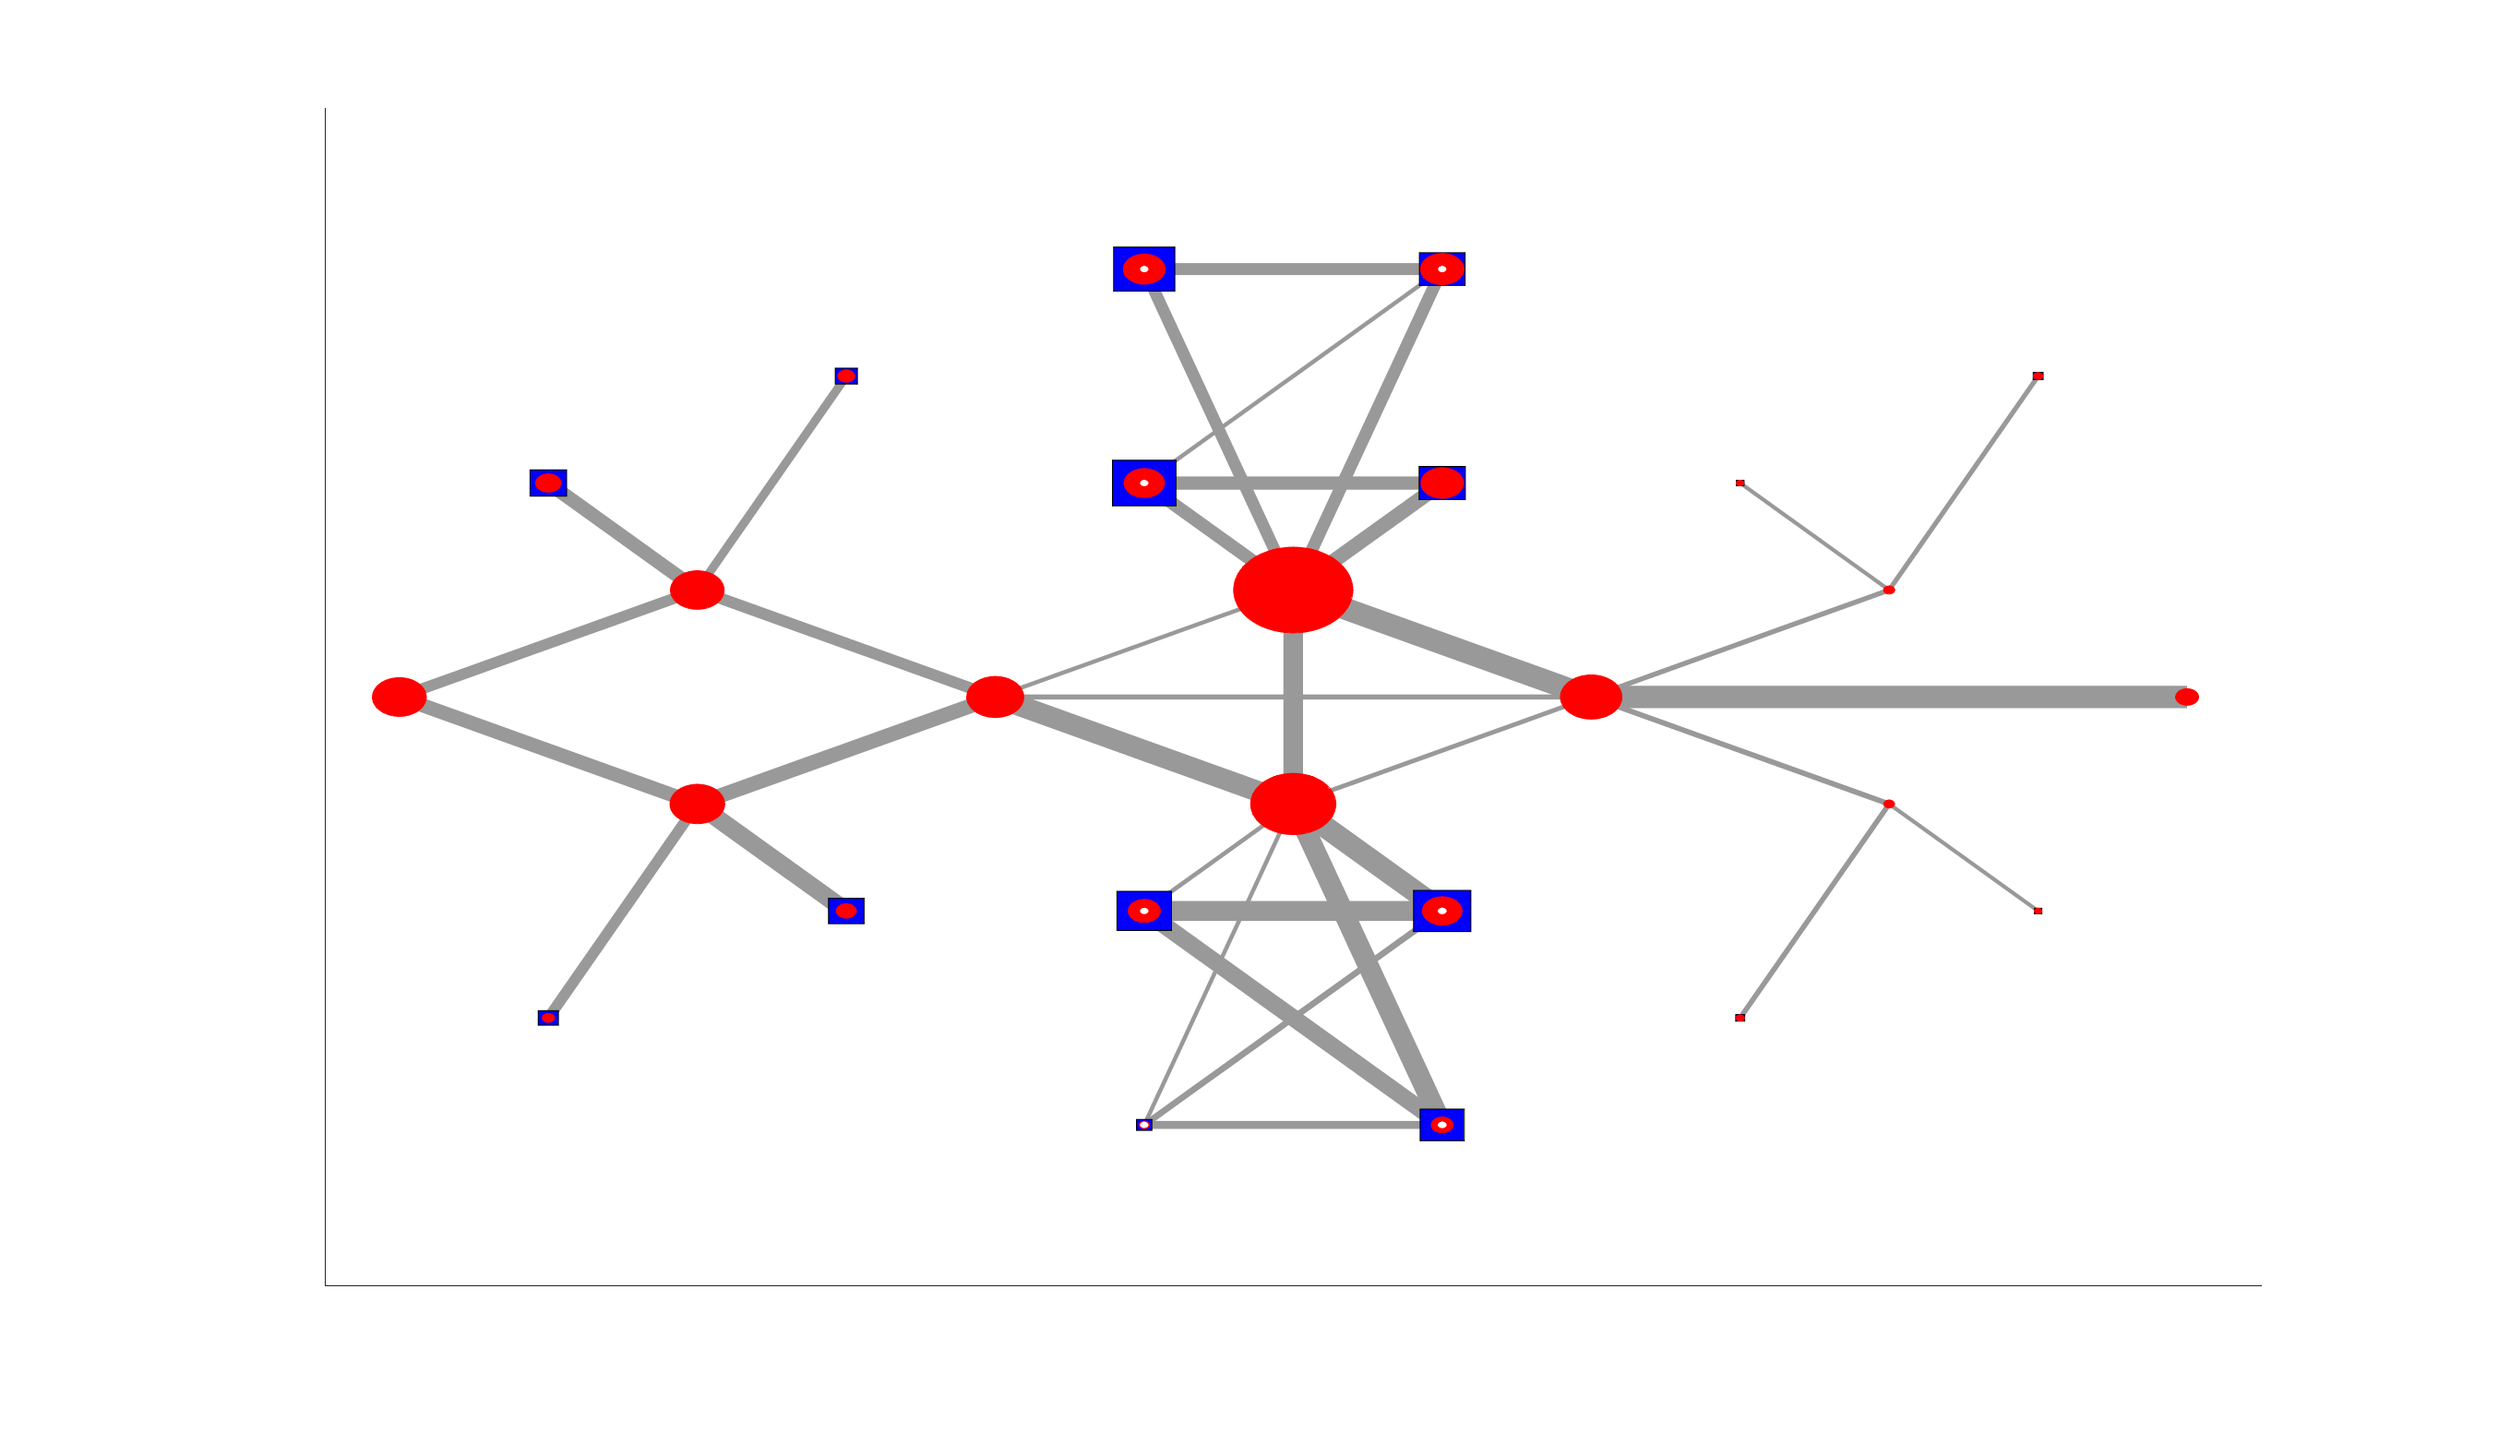
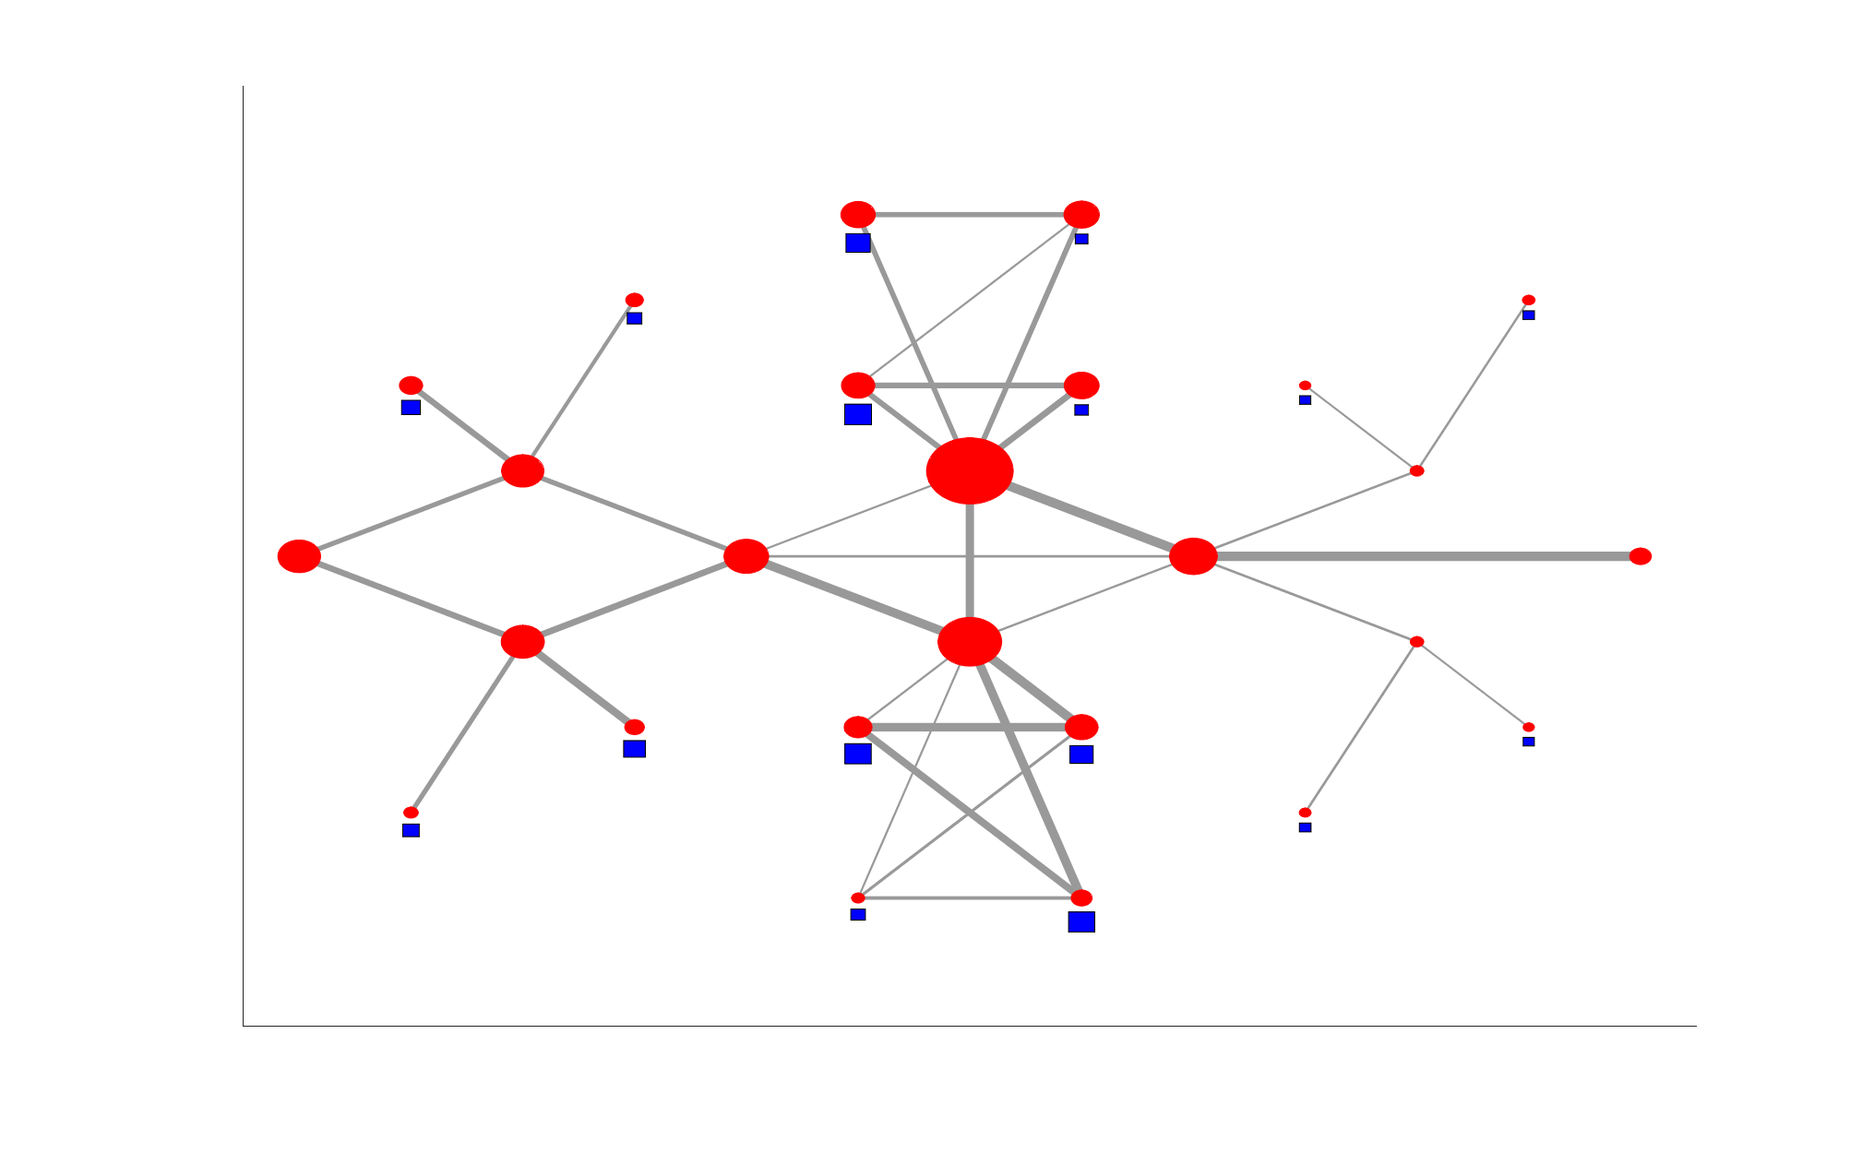
Updates to visualization (decoupling of waiting and processing times)

diff --git a/plotNodes.m b/plotNodes.m
@@ -1,26 +1,34 @@
-plotThicknessHold = zeros(size(uniqueNodesWithTimes,1),1);
+plotThicknessHold1 = zeros(size(uniqueNodesWithTimes,1),1);
 hold on;
 
 %Plot
-%maxPlot = max(uniqueNodesWithTimes(:,end))/scaleFactorNode; %scale factor
-maxPlot = max(uniqueNodesWithTimes(:,end));
-minPlot = min(uniqueNodesWithTimes(:,end));
-
 for i = 1:size(uniqueNodesWithTimes,1)
     p_x = uniqueNodesWithTimes(i,1);
     p_y = uniqueNodesWithTimes(i,2);
     
-    % Plot machines
-    if(uniqueNodesWithTimes(i,5)~=0)
-         %plotThicknessManuf = uniqueNodesWithTimes(i,end)/maxPlot;
-         plotThicknessManuf = (scaleMax-scaleMin)/(maxPlot-minPlot)*(uniqueNodesWithTimes(i,end) - maxPlot)+scaleMax;
-         rectangle('Position',[p_x-plotThicknessManuf/2,p_y-plotThicknessManuf/2,...
-            plotThicknessManuf,plotThicknessManuf],'FaceColor','b')
-        
-    end
+%     %Wait for the machine
+%     if (uniqueNodesWithTimes(i,end-3)>0)
+%         plotThicknessHold1 = (scaleMax-scaleMin)/(maxPlot-minPlot)*(uniqueNodesWithTimes(i,end-3)- maxPlot)+scaleMax;
+%         rectangle('Position',[p_x-plotThicknessHold1,p_y-plotThicknessHold1/2,...
+%             plotThicknessHold1,plotThicknessHold1],'Curvature',[1,1],...
+%             'EdgeColor','k','FaceColor','w')
+%         
+%     end
+%     
+%     %Wait for the robot
+%     if ((uniqueNodesWithTimes(i,end-2))>0)
+%      
+%         plotThicknessHold2 = (scaleMax-scaleMin)/(maxPlot-minPlot)*((uniqueNodesWithTimes(i,end-2)) - maxPlot)+scaleMax;
+%         if (~plotThicknessHold1>0)
+%             plotThicknessHold1 = -plotThicknessHold2;
+%         end
+%         
+%         rectangle('Position',[p_x+plotThicknessHold1/2,p_y-plotThicknessHold2/2,...
+%             plotThicknessHold2,plotThicknessHold2],'Curvature',[1,1],...
+%             'EdgeColor','r','FaceColor','r')
+%     end
     
     if ((uniqueNodesWithTimes(i,end-2)+uniqueNodesWithTimes(i,end-3))>0)
-    
      % Plot buffers
         %plotThicknessHold = (uniqueNodesWithTimes(i,end-2)+uniqueNodesWithTimes(i,end-3))/maxPlot;
         plotThicknessHold = (scaleMax-scaleMin)/(maxPlot-minPlot)*((uniqueNodesWithTimes(i,end-2)+uniqueNodesWithTimes(i,end-3)) - maxPlot)+scaleMax;
@@ -29,13 +37,12 @@ for i = 1:size(uniqueNodesWithTimes,1)
             'EdgeColor','r','FaceColor','r')
     end
     
-    %Wait for the machine
-    if (uniqueNodesWithTimes(i,end-3)>0)
-       % plotThicknessHold = uniqueNodesWithTimes(i,end-3)/maxPlot;
-        plotThicknessHold = (scaleMax-scaleMin)/(maxPlot-minPlot)*(uniqueNodesWithTimes(i,end-3)- maxPlot)+scaleMax;
-        rectangle('Position',[p_x-plotThicknessHold/2,p_y-plotThicknessHold/2,...
-            plotThicknessHold,plotThicknessHold],'Curvature',[1,1],...
-            'EdgeColor','w','FaceColor','w')
+    % Plot machines
+    if(uniqueNodesWithTimes(i,5)~=0)
+         %plotThicknessManuf = uniqueNodesWithTimes(i,end)/maxPlot;
+         plotThicknessManuf = (scaleMax-scaleMin)/(maxPlot-minPlot)*(uniqueNodesWithTimes(i,end-1) - maxPlot)+scaleMax;
+         rectangle('Position',[p_x-plotThicknessManuf/2,p_y-plotThicknessManuf-plotThicknessHold/2-0.7,...
+            plotThicknessManuf,plotThicknessManuf],'FaceColor','b')
         
     end
 end

diff --git a/DataAnalysis.m b/DataAnalysis.m
@@ -29,9 +29,12 @@ for testIndex = 1:5
     end
 end
 
+figureProps.maxNodes = zeros(1,3);
+figureProps.maxEdges = zeros(1,3);
+
 for indexBig = 1:3
-    clearvars -except indexBig st results;
     data = st.(['data' num2str(indexBig)]);
+    data(data<0) = 0;
     parents = data(:,1:2);
     children = data(:,3:4);
     time_move = data(:,6);
@@ -51,29 +54,58 @@ for indexBig = 1:3
     
     findEdges;
     figureProps.(['edges' num2str(indexBig)]) = uniqueEdgesWithTimes;
+    figureProps.maxEdges(indexBig) = maxPlot;
+    figureProps.minEdges(indexBig) = minPlot;
     findNodes;
     figureProps.(['nodes' num2str(indexBig)]) = uniqueNodesWithTimes;
+    figureProps.maxNodes(indexBig) = maxPlot;
+    figureProps.minNodes(indexBig) = minPlot;
+    
     
     data_results = results.(['data' num2str(indexBig)]);
     results.(['resultAverages' num2str(indexBig)]) = mean(data_results);
     results.(['resultStdDev' num2str(indexBig)]) = std(data_results);
 end
 
-%subplot(2,2,indexBig);hold on;
-figure('rend','painters','pos',[10 10 1300 800]);hold on;
-set(gca,'xtick',[])
-set(gca,'xticklabel',[])
-set(gca,'ytick',[])
-set(gca,'yticklabel',[])
-grey = [0.6 0.6 0.6];
-scaleMax = 50;
-scaleMin = 2;
-plotEdges;
-scaleMax = 8;
-scaleMin = 0.5;
-plotNodes;
+results.resultAverageFlowTime1 = ...
+        sum(figureProps.nodes1(:,end))/results.resultAverages1(1);
+results.resultAverageFlowTime2  = ...
+        sum(figureProps.nodes2(:,end))/sum(results.resultAverages2([1 3 5]));    
+ results.resultAverageFlowTime3 = ...
+        sum(figureProps.nodes3(:,end))/results.resultAverages3(1);
+    
+    
 
-xlim([15 145])
-ylim(ylim+[-5 5]);
+for indexBig = 1:3
+    
+    %subplot(2,2,indexBig);hold on;
+    figure('rend','painters','pos',[10 10 1300 800]);hold on;
+    set(gca,'xtick',[])
+    set(gca,'xticklabel',[])
+    set(gca,'ytick',[])
+    set(gca,'yticklabel',[])
+    grey = [0.6 0.6 0.6];
+    
+    scaleMax = 25;
+    scaleMin = 1;
+    maxPlot = max(figureProps.maxEdges);
+    minPlot = min(figureProps.minEdges);
+    uniqueEdgesWithTimes = figureProps.(['edges' num2str(indexBig)]);
+    plotEdges;
+    
+    scaleMax = 15;
+    scaleMin = 1;
+    maxPlot = max(figureProps.maxNodes);
+    minPlot = min(figureProps.minNodes);
+    uniqueNodesWithTimes = figureProps.(['nodes' num2str(indexBig)]);
+    plotNodes;
 
-saveas(gcf,['CaseStudy' num2str(indexBig) '.png']);
+    xlim([15 145])
+    ylim(ylim+[-5 5]);
+
+    saveas(gcf,['CaseStudy' num2str(indexBig) '.png']);
+end
+
+sum(figureProps.nodes1(:,end))/135.4
+sum(figureProps.nodes2(:,end))/(42.8+40.6+44.6)
+sum(figureProps.nodes3(:,end))/134.6

diff --git a/findEdges.m b/findEdges.m
@@ -24,6 +24,7 @@ for ind = 1:size(uniqueEdges,1)
    uniqueEdgesWithTimes(ind,end) = sum(combine_edge(inds,end));
 end
 
+nodesManufacturing = [];
 for i = 1:size(uniqueEdgesWithTimes,1)
     p_x = uniqueEdgesWithTimes(i,1);
     p_y = uniqueEdgesWithTimes(i,2);
@@ -31,9 +32,11 @@ for i = 1:size(uniqueEdgesWithTimes,1)
     c_y = uniqueEdgesWithTimes(i,4);
     
     % Save edges that are loops separetly (manufacturing edges)
-    if(~(p_x == c_x && p_y == c_y))
-       
-    else
+    if(p_x == c_x && p_y == c_y)
         nodesManufacturing = [nodesManufacturing;p_x p_y uniqueEdgesWithTimes(i,end)];
     end
 end
+
+%maxPlot = max(uniqueEdgesWithTimes(:,end))/scaleFactorEdge; %scale factor
+maxPlot = max(uniqueEdgesWithTimes(:,end));
+minPlot = min(uniqueEdgesWithTimes(:,end));

diff --git a/plotEdges.m b/plotEdges.m
@@ -1,10 +1,6 @@
 plotThickness = zeros(size(uniqueEdgesWithTimes,1),1);
 
 %Plot
-%maxPlot = max(uniqueEdgesWithTimes(:,end))/scaleFactorEdge; %scale factor
-maxPlot = max(uniqueEdgesWithTimes(:,end));
-minPlot = min(uniqueEdgesWithTimes(:,end));
-
 nodesManufacturing = [];
 for i = 1:size(uniqueEdgesWithTimes,1)
     p_x = uniqueEdgesWithTimes(i,1);

diff --git a/findNodes.m b/findNodes.m
@@ -21,3 +21,7 @@ for ind = 1:size(uniqueNodes,1)
    %append total time
    uniqueNodesWithTimes(ind,end) = sum(uniqueNodesWithTimes(ind,end-3:end-1));
 end
+
+%maxPlot = max(uniqueNodesWithTimes(:,end))/scaleFactorNode; %scale factor
+maxPlot = max(uniqueNodesWithTimes(:,end));
+minPlot = min(uniqueNodesWithTimes(:,end));
